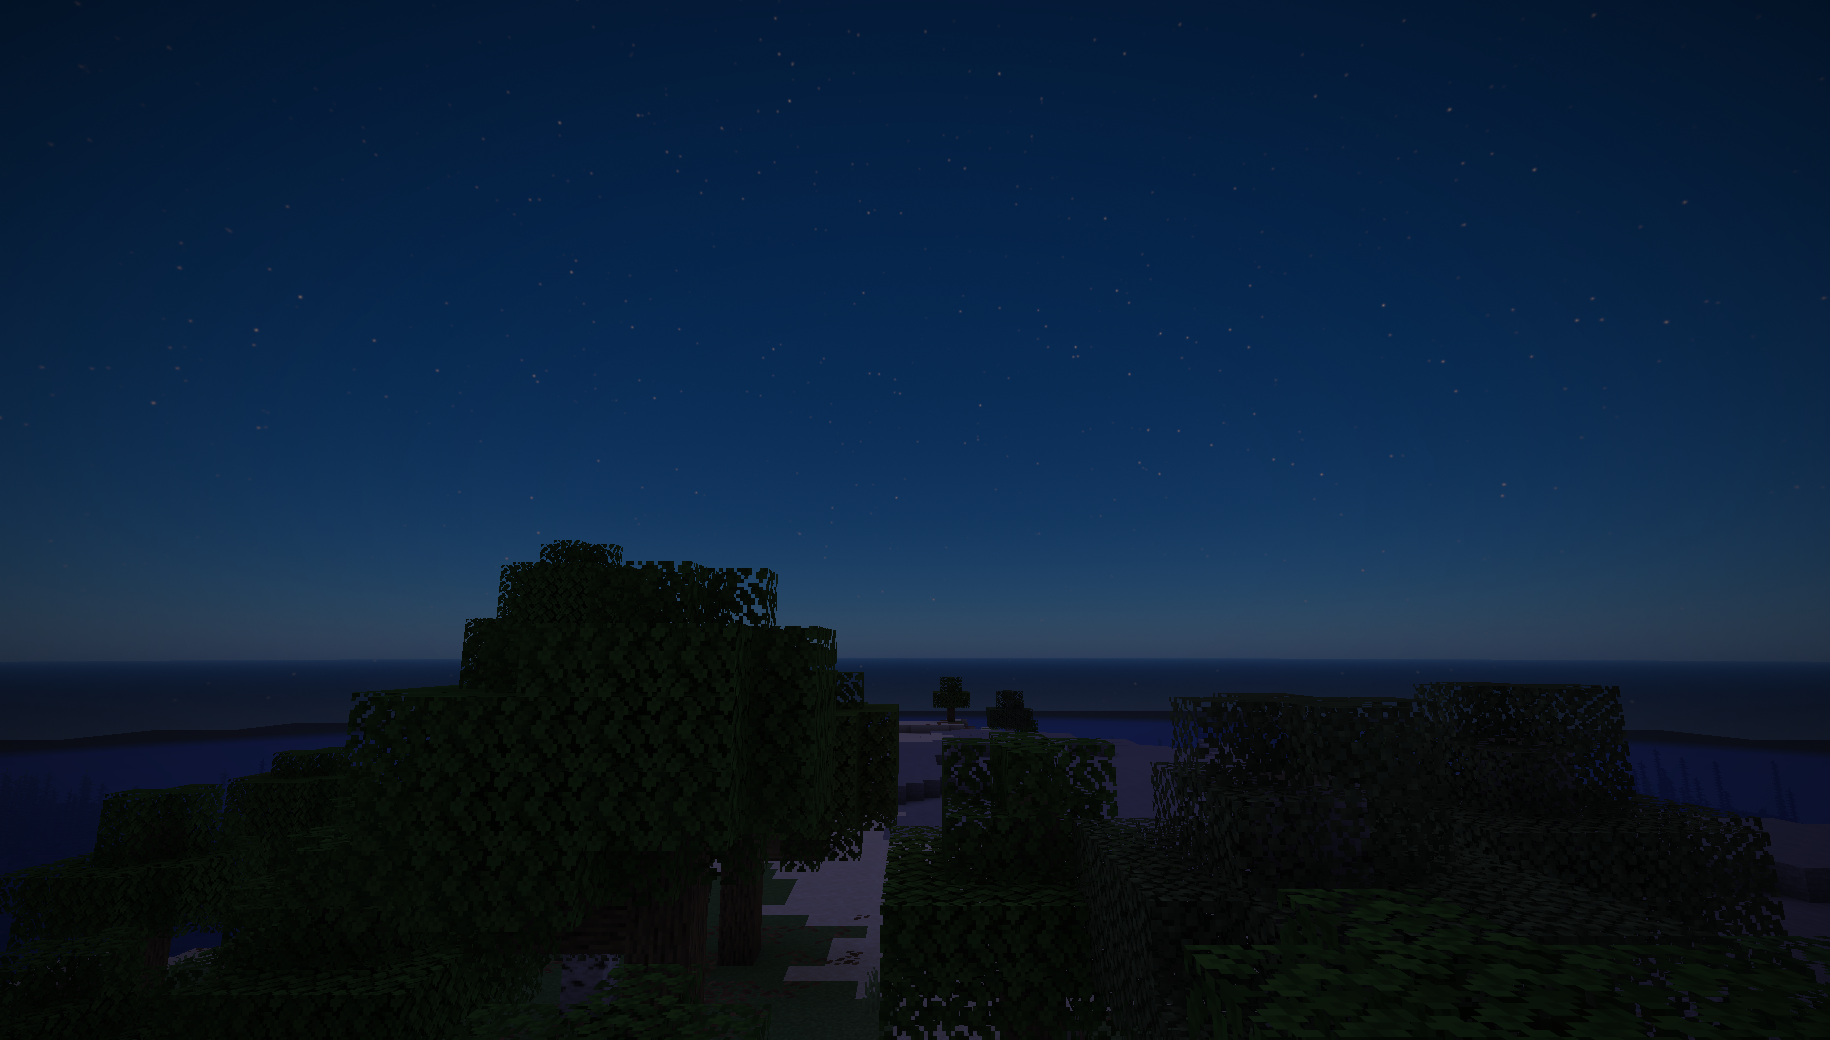
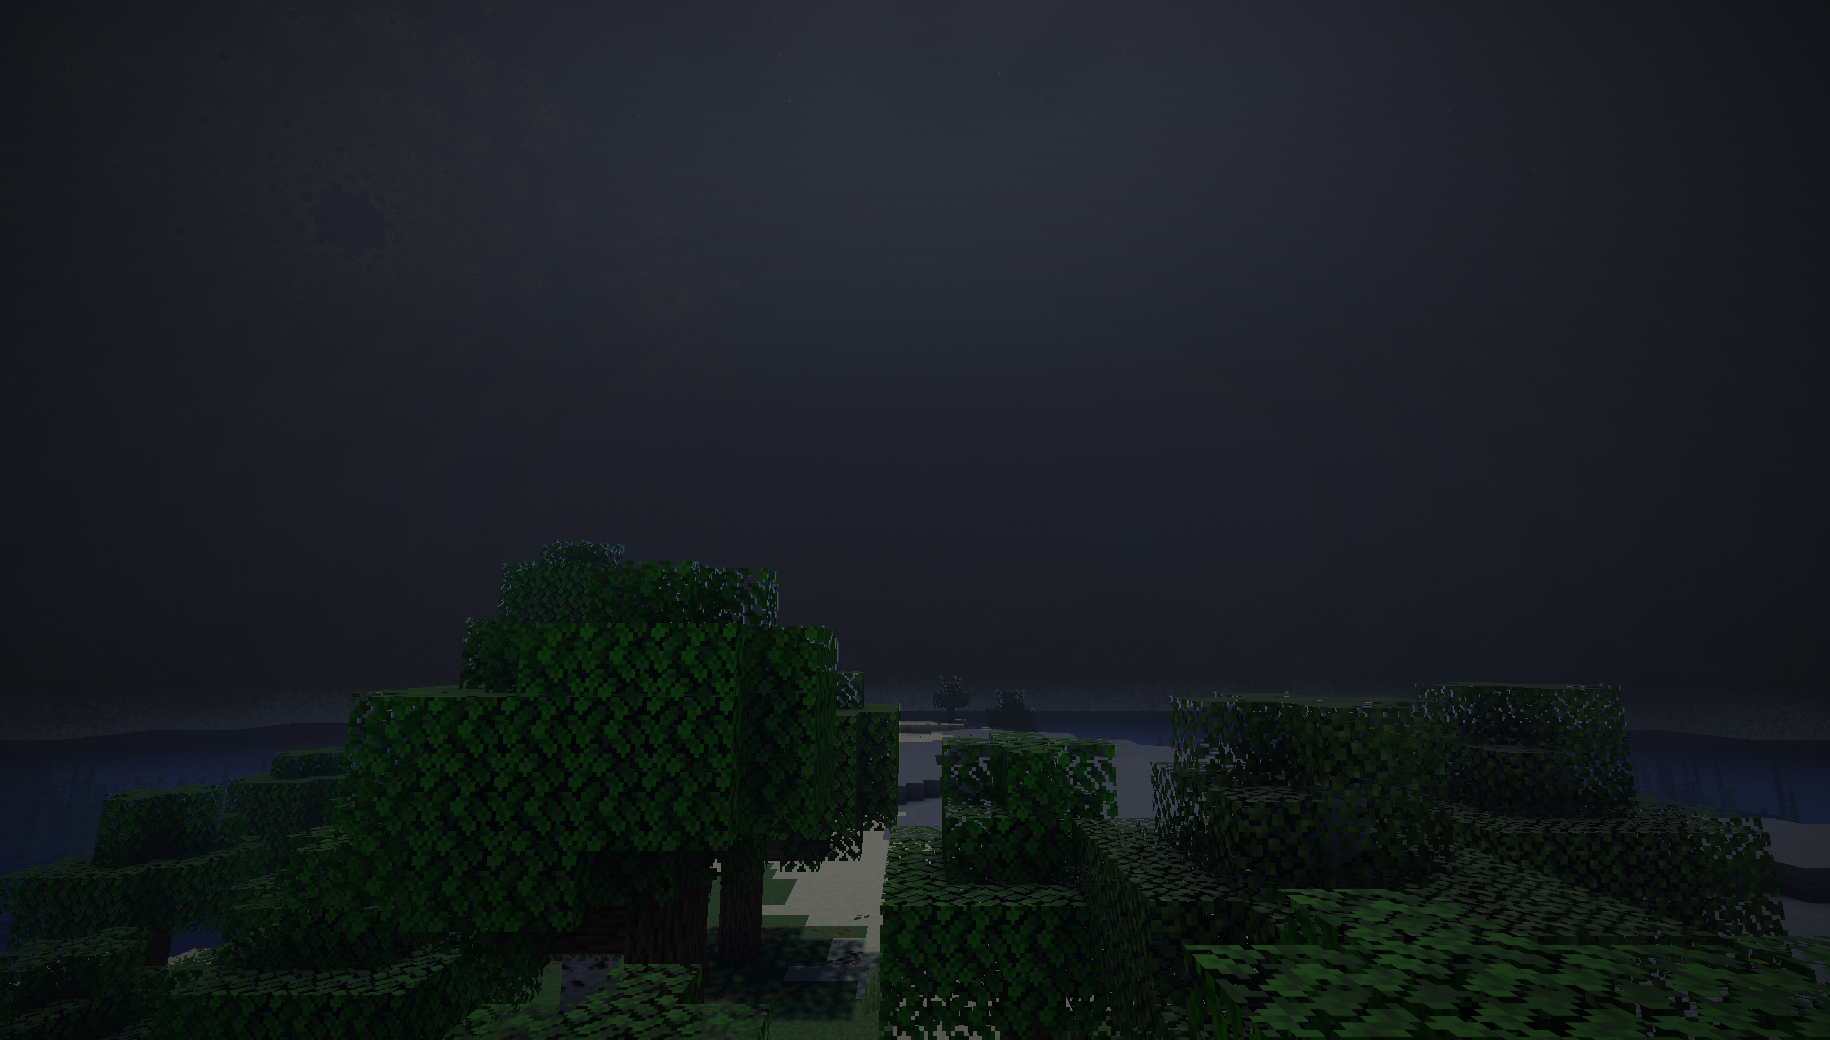
Revisión 03–05: nubes, niebla nocturna, tramos sobre las nubes, horizonte, nieve, VNDF y opciones
- Opciones recortadas al presupuesto de convenciones.md (31: las imprescindibles
  de 01–05 y 11 más tres de margen); «Nubes» por capas.
- Cúmulos: inclinación con la dirección del viento (el desplazamiento acumulado
  daba lágrimas tumbadas), techo menos cónico, ruido blanco por píxel en vez de
  IGN (estrías), más pasos.
- Raymarch por tramos ordenados (niebla bajo el plano de nubes, cada capa en su
  losa); los píxeles de cielo que miran abajo acaban en el plano del mar (el
  rayo seguía bajo el mundo y daba un velo opaco visto desde arriba).
- Cielo bajo el horizonte evaluado mirando al horizonte y con el mismo peso por
  ángulo que la niebla de borde: el mar lejano ya no acaba en una franja gris.
  Aerosoles ×5 y dispersión múltiple 0,4 en parametros.wgsl; tablas regeneradas.
- Niebla nocturna uniforme hasta Y = 320 con τ ≈ 2,2 al cenit (respuesta de A),
  fase propia hacia delante y poco ambiente; tormenta de nieve blanca; manchas
  de bioma solo con downfall > 0,85.
- Reflejos de pantalla con muestreo de la VNDF de GGX.

diff --git a/docs/efectos/niebla-y-nubes.md b/docs/efectos/niebla-y-nubes.md
@@ -14,9 +14,10 @@ reescalado bilateral por profundidad, niebla de borde. `[material] fog = false`:
 se aplica. También cierra dos pendientes: las **sombras de nubes** del 04 en el material, y la **lluvia
 sobre el cielo, que se desvanece por encima de la capa de nubes** (01).
 
-**Fuera por ahora:** los ganchos de la aurora (06) y los rayos del fractal (14) en el bucle; la niebla de
-nieve con `precipitation == 2`; el ruido azul (se usa IGN desplazado por fotograma, y hasta el TAA, 09, se ve
-algo de grano en las nubes y la niebla).
+**Fuera por ahora:** los ganchos de la aurora (06) y los rayos del fractal (14) en el bucle; el ruido azul
+desplazado con R2 (lo trae el 09): hasta entonces el primer paso se desplaza con ruido blanco PCG por píxel y
+fotograma (`rui_blanco_pixel`) y se ve grano fino. Con IGN se veían **estrías paralelas** dentro de las nubes
+(observación del gestor): su estructura diagonal se alineaba entre píxeles vecinos.
 
 ## Por qué del código
 
@@ -47,8 +48,16 @@ código (medido): el presupuesto de 64 por etapa no aprieta.
 - **Sombra** del mapa (una comparación por paso) con la posición del mapa calculada en el núcleo con la
   fórmula documentada de la distorsión (`luz_posicion_mapa`); **sombra de nubes** evaluada en los dos
   extremos del tramo e interpolada (varía despacio y evaluarla en cada paso costaba).
-- **Nubes:** cada capa en el orden en que el rayo la cruza (de abajo arriba mirando arriba, al revés mirando
-  abajo), entre los planos de su losa, 10 pasos (6/10/16 por calidad), 3 en los altoestratos. Luz: Beer con
+- **Tramos ordenados:** la niebla solo existe por debajo del plano de nubes bajas; cada capa de nubes, en su
+  losa. Los cuatro tramos (niebla y tres capas) no se solapan: se calculan sus entradas y se integran en el
+  orden en que el rayo los cruza, esté la cámara por debajo, dentro o por encima de cada capa
+  (`vol_integrar`). Visto en el juego desde Y = 420 (cúmulos grandes encima) y Y = 900 (cúmulos grandes
+  debajo, con la cima iluminada, por delante del suelo).
+- **Píxeles de cielo mirando hacia abajo** (más allá de la distancia de renderizado): el rayo acaba en el plano
+  del mar. Antes seguía 512 bloques bajo el mundo, donde las manchas ya no caen con la altura, y desde encima
+  de las nubes daba un velo opaco ruidoso (lo vio el gestor; la causa la encontró una sonda: `manchas` > 0
+  por el término de bioma húmedo, `downfall` 0,8 del bosque).
+- **Nubes:** 14 pasos por capa baja (8/14/20 por calidad), 3 en los altoestratos. Luz: Beer con
   dos muestras hacia el astro a 8 y 28 bloques **sin erosión** (solo cobertura y forma, como prevé la
   especificación para el presupuesto), fase con «powder», ambiente más oscuro en la base. Hasta 6000
   bloques, fundidas desde la mitad: cerca del horizonte cada paso abarcaba miles de bloques y dejaba vetas.
@@ -57,12 +66,14 @@ código (medido): el presupuesto de 64 por etapa no aprieta.
 
 - **Aire:** Rayleigh (0,5; 1,2; 2,9)·10⁻⁴ y Mie 1·10⁻⁴ por bloque al nivel del mar, altura de escala 600
   bloques. Afinado a ojo: azula y aclara lo lejano sin velar lo cercano.
-- **Niebla uniforme pegada al suelo (desviación, duda para A):** además de la caída desde Y = 320, la uniforme
-  decae con una altura de escala de 70 bloques sobre «mar + 20» (`VOL_UNIFORME_ALTURA`), y la de noche es
-  0,6. Con la uniforme constante hasta 320, mirar arriba de noche atravesaba ~240 bloques de niebla densa
-  (τ ≈ 5) y **tapaba del todo las estrellas y el cielo fractal**, que en la referencia de Vulpe
-  (`forge_cielo.png`) se ven de noche. Así sigue densa a ras de suelo y el cielo se intuye atenuado. Con el
-  mod nativo debería ser la altura media del terreno (`frame.mods[0].w`) en vez del mar.
+- **Niebla nocturna (respuesta de A, 2026-11-02):** tapa el cielo casi entero a propósito (la aurora, 06,
+  existe por eso). Uniforme hasta Y = 320 (sin pegarla al suelo: se probó y se deshizo), densidad relativa
+  0,38 de noche: σ = 0,0076 por bloque, que da τ ≈ 2,2 al cenit desde Y = 70 (≈11 % de transmitancia; A pide
+  10–15 %) y τ ≈ 3,9 hacia el horizonte en los 512 bloques del alcance (≈2 %; A pide < 3 %). **Brillo:** la
+  niebla tiene una fase propia (`vol_fase_niebla`: 96 % de Henyey-Greenstein con g = 0,9, el resto difuso y
+  hacia atrás) y ambiente ×0,015–0,05 del cielo: fuera del halo de la luna queda más oscura que el cielo
+  despejado. Medido en el juego: 16–34/255 lejos del halo frente a 3–17 de `aurora_off_noche.png`; aún algo
+  más clara y gris que la referencia.
 - **Niebla:** extinción 0,02 por bloque con densidad relativa 1; manchas de ruido 3D (celdas de 96×40×96
   bloques) umbralizadas, que caen por encima del mar + 24; caída global `exp(−0,025·(y − 320))`.
   Luz: sol × sombra × fase + ambiente ×0,1–0,25 (más mirando arriba). El ambiente es bajo a propósito:
@@ -72,7 +83,9 @@ código (medido): el presupuesto de 64 por etapa no aprieta.
   por un **gradiente de altura** (base redondeada en los primeros 25 bloques, techo en cúpula):
   `(cobertura − (1 − gradiente))/gradiente` (Schneider y Vos 2015). Sin eso, con densidad casi constante
   en altura, salían columnas de paredes rectas que, vistas desde abajo, convergían en el cenit como rayas.
-  Erosión 3D de dos frecuencias en los bordes. Extinción 0,25 por bloque (0,03 los altoestratos): con 0,06
+  Erosión 3D de dos frecuencias en los bordes. Techo que se estrecha desde el 55 % del espesor (desde el 25 %
+  salían conos). **Inclinación con el viento:** un 20 % del espesor en la *dirección* del viento; antes usaba el
+  desplazamiento acumulado, que crece con el tiempo, y salían lágrimas tumbadas (observación del gestor). Extinción 0,25 por bloque (0,03 los altoestratos): con 0,06
   se veía la columna entera a través de la base.
 - **Capas:** base 175 / 450 / 2000 bloques sobre el mar (Y = 63), espesor 100 / 200 / 12.
 
@@ -82,11 +95,17 @@ Once perfiles (despejado, cúmulos pequeños, grandes, ambos, altoestratos, mixt
 cobertura de cada capa; uno por cuarto de día sorteado con PCG del número de día (`frame.mods[0].z`; 0 sin
 mod: se repite cada día), fundido con el siguiente en el último 20 % del cuarto. Con lluvia se mezcla hacia
 perfiles de lluvia (cobertura 0,65–0,95, densidad ×1,3–1,8). **Horario de la niebla** (relativo): amanecer
-uniforme 0,06 y manchas 0,5; mediodía 0; atardecer uniforme 0,1; noche uniforme 0,6 y manchas 0,15;
+uniforme 0,06 y manchas 0,5; mediodía 0; atardecer uniforme 0,1; noche uniforme 0,38 y manchas 0,15;
 transiciones de 0,08 de día. Lluvia: +0,5 uniforme y +0,4 manchas (× opción). Biomas húmedos: más manchas
-con `downfall` alto y temperatura templada. En cuevas (luz de cielo en la cámara baja) la niebla queda al 5 %.
+con `downfall` por encima de 0,85 (pantanos, junglas, manglares; el bosque normal, 0,8, ya no: sus manchas a
+mediodía salían como grano en el halo del sol) y temperatura templada. **Tormenta de nieve** (`precipitation == 2` y lluvia): +1,2
+uniforme, +0,5 manchas y luz ambiente ×8 (niebla blanca). Vista en un bioma nevado (escena). En cuevas (luz de cielo en la cámara baja) la niebla queda al 5 %.
 
 ### Composición y borde
+
+**Cielo bajo el horizonte y borde:** la niebla de borde y el cielo bajo el horizonte (01) usan el mismo peso
+por ángulo (`cie_peso_bruma_horizonte`: bruma hasta ~9° bajo el horizonte, suelo más allá de ~30°), así el
+terreno que acaba antes del horizonte casa con lo que el cielo pinta detrás, a cualquier altura de cámara.
 
 Reescalado bilateral: los 4 texels vecinos de media resolución pesados por bilineal × `1/(ε + |Δd|/d)` con
 la distancia de cada texel reconstruida con `depth_at` y `view_position`. Niebla de borde: el último tercio de
@@ -95,9 +114,10 @@ cuevas, hacia el color del cielo aproximado de la tabla. `color = escena · T + 
 
 ## Opciones
 
-Página «Niebla y nubes» (12): niebla sí/no, pasos (4–16), cantidad, con lluvia, bruma (0–2), caída
-(0–100 ‰), alcance (256–2048), nubes sí/no, calidad, viento (0–3), sombras de nubes (0–100 %), tiempo diario
-aleatorio. «Nubes por capa» queda fuera para ahorrar opciones (van 58 de 64).
+Presupuesto de `convenciones.md` (2026-11-02): niebla sí/no, calidad (pasos 4–16), cantidad, con lluvia,
+**nubes por capas** (apagadas, todas, solo cúmulos, solo altoestratos) y calidad de nubes. Las sombras de
+nubes van en la página de sombras (04). Bruma, caída, alcance, viento y tiempo aleatorio pasan a constantes
+(`opciones/volumen.wgsl`, en mayúsculas) con su valor por defecto.
 
 ## Coste medido
 

diff --git a/docs/efectos/cielo-y-atmosfera.md b/docs/efectos/cielo-y-atmosfera.md
@@ -41,10 +41,12 @@ como `referencias/uns_cielo-noche_sinfractal.png`. Es analítica y no lee nada d
   (`(1 − e^{−σΔ})/σ`), para que pocos pasos no oscurezcan el cielo.
 - **Dispersión múltiple aproximada:** término isótropo `σ_s · L_media` en cada tramo, con `L_media` la media
   de las filas «cielo» y «suelo» de la tabla para ese astro (la radiancia que ve en promedio un punto del
-  aire), ×0,4 (`OPC_MULTIPLE_REFUERZO`). Con ×1 el cielo de mediodía salía gris; la tabla itera el mismo
+  aire), ×0,4 (`ATM_MULTIPLE`, en `parametros.wgsl`: también lo lee la herramienta). Con ×1 el cielo de mediodía salía gris; la tabla itera el mismo
   término cuatro veces hasta converger.
-- **Aerosoles ×5** sobre Hillaire (`OPC_BRUMA_BASE`) por defecto: con el aire limpio el halo del sol era
-  pequeño y apagado, y la referencia (`base_Bliss-UNS_dia_r1.png`) lo quiere amplio y blanco.
+- **Aerosoles ×5** sobre Hillaire, dentro de `atm_tierra()`: con el aire limpio el halo del sol era pequeño
+  y apagado, y la referencia (`base_Bliss-UNS_dia_r1.png`) lo quiere amplio y blanco. Antes era un
+  multiplicador en `opciones/` que la tabla no veía: su horizonte salía más oscuro que el cielo en vivo y la
+  niebla de borde pintaba una franja gris sobre el mar. Ahora la tabla sale del mismo modelo.
 - **Saturación del cielo** (`OPC_CIELO_SATURACION`): fue ×1,5 mientras la codificación usaba Reinhard por
   canal (comprimía el cenit de ~1 : 2 : 4,5 a ~1 : 1,6 : 2,4); con el Reinhard sobre el canal máximo
   (ADR 0004) vuelve a 1.
@@ -95,11 +97,14 @@ píxeles que se desplaza suave al girar en vez de centellear. No giran con la ho
 
 ### Montaje
 
-`etapas/cielo.wgsl`: fondo (estrellas + disco) × transmitancia, + dispersión; bajo el horizonte un factor
-gaussiano de 0,06 de anchura en `dir.y` lleva a un «suelo» oscuro teñido del cielo
-(`cie_color_bajo_horizonte`: 60 % del cielo medio, 40 % del suelo de la tabla, ×0,35). El suelo iluminado
-de la tabla a secas salía casi blanco con la exposición del día. La dispersión bajo el horizonte se deja
-al 60 % (perspectiva aérea hasta el suelo del planeta).
+`etapas/cielo.wgsl`: fondo (estrellas + disco) × transmitancia, + dispersión. **Bajo el horizonte** la
+atmósfera se evalúa como si se mirase al horizonte (`dir.y` llevado a 0): en Minecraft el terreno acaba antes
+que el horizonte del planeta y lo que se ve detrás tiene que ser bruma; evaluada de verdad, el rayo tocaba el
+suelo del planeta enseguida y quedaba una banda oscura sobre el mar lejano (observación del gestor). Esa
+bruma pasa a un «suelo» oscuro teñido del cielo (`cie_color_bajo_horizonte`: 60 % del cielo medio, 40 % del
+suelo de la tabla, ×0,35) con el mismo peso por ángulo que la niebla de borde del 05
+(`cie_peso_bruma_horizonte`: bruma hasta ~9° bajo el horizonte, suelo pasados ~30°), así casan a cualquier
+altura de la cámara.
 
 **Lluvia:** mezcla hacia un gris (35 % del color medio del cielo) ×1,1, ×(1 − 0,6·tormenta), con peso
 `lluvia · mix(0,75; 1; e^(−4·max(dir.y, 0)))`, mayor hacia el horizonte; la lluvia y la tormenta se
@@ -111,10 +116,9 @@ etapa `sky` no tiene coordenada de píxel.
 
 ## Opciones
 
-Página «Cielo»: brillo del cielo, bruma y brillo de la luna en pasos (−2…+2, 0 en el centro: la regla del
-valor por defecto centrado de las convenciones, con el ×0,25…×4 de la especificación), temperatura del sol
-4000–8000 K (6000 en el centro), estrellas sí/no y su brillo. El multiplicador de Rayleigh por canal
-(prioridad baja) queda fuera para ahorrar opciones.
+Página «Cielo» (presupuesto de `convenciones.md`, 2026-11-02): brillo del cielo y de la luna en pasos
+(−2…+2, 0 en el centro: el ×0,25…×4 de la especificación) y estrellas sí/no. Bruma, temperatura del sol y
+brillo de las estrellas pasan a constantes con su valor por defecto (`opciones/cielo.wgsl`).
 
 ## Coste medido
 

diff --git a/docs/efectos/luz-de-superficie.md b/docs/efectos/luz-de-superficie.md
@@ -70,9 +70,10 @@ Perfil `e^(−grosor/alcance)·cantidad` con alcance de 0,05 a 1,5 bloques; colo
 saturado ×1,5 por lo que no pasa; fase de dos lóbulos de Henyey-Greenstein (g 0,85 y 0,4) normalizada a
 ~1 de lado y ~10 a contraluz. La directa total es `mix(SSS, albedo, N·L × sombra)`.
 
-**Alfombras y capas de nieve:** Horizon da el id por sprite, y la alfombra usa el sprite de la lana y la
-capa de nieve el del bloque de nieve: no se pueden separar de sus bloques. Las alfombras quedan sin SSS y
-las capas de nieve con el débil del bloque.
+**Alfombras y capas de nieve (decidido: aceptarlo, la primera opción de A):** Horizon da el id por sprite
+(`[[materials]] blocks` tampoco lo separa) y la alfombra usa el sprite de la lana y la capa de nieve el del
+bloque de nieve. Las alfombras quedan sin SSS como la lana, y las capas de nieve con el débil del bloque.
+Distinguirlas por la altura de la cara superior solo serviría para esa cara y se notaría poco.
 
 ### Especular y LabPBR
 
@@ -114,11 +115,17 @@ bloques, y 4 pasos de bisección; las posiciones se reconstruyen con `projection
 dirección reflejada × curva de la luz de cielo del punto. Por Fresnel con rugosidad sobre el F0 del dato. Sin
 paquete PBR solo lo usan los charcos.
 
+**Rugosidad:** la normal de microfaceta se muestrea de la VNDF de GGX (Heitz 2018, `sup_muestrear_vndf`) con
+dos números al azar por píxel y fotograma, en una base ortonormal alrededor de la normal (Duff et al. 2017);
+el TAA (09) promediará el ruido. Los charcos (suavidad 0,97) son casi espejo y la desviación apenas se nota;
+**no se ha podido ver en superficies rugosas** sin un paquete LabPBR.
+
 ## Opciones
 
-Página «Luz»: brillo de la luz de cielo y de bloque (0–2), color de la luz de bloque, luz mínima en cuevas
-(0,5) y al aire libre (0), SSS (apagado, lista, LabPBR, ambas), su brillo, brillo especular del sol, emisión
-LabPBR, reflejos de pantalla (apagados, bajos, altos) y charcos.
+Página «Luz» (presupuesto de `convenciones.md`): luz de cielo y de bloque (0–2), luz mínima en cuevas, SSS
+(apagado, lista, LabPBR, ambas), reflejos de pantalla (apagados, bajos, altos) y charcos. Color de la luz de
+bloque, luz mínima al aire libre, brillo del SSS, especular del sol y emisión LabPBR pasan a constantes
+(`opciones/luz.wgsl`).
 
 ## Coste
 

diff --git a/docs/efectos/cielo-fractal.md b/docs/efectos/cielo-fractal.md
@@ -84,9 +84,10 @@ figuras más brillantes y opacas que la referencia, que las quiere del orden de 
 
 ## Opciones
 
-Página «Cielo fractal» (13): activado, cambios por noche, cobertura 5–80 (45), máximo de conjuntos 1–8 (6),
-semilla 0–15 (8), paleta, brillo 0–200 (40), techo 0–200 (150), saturación 0–100 (70), contraste 0–300 (60),
-mutación 0–100 (25), hueco 0–400 (40), dibujo original/suave. Valores por defecto de la especificación.
+Presupuesto de `convenciones.md` (2026-11-02), página «Cielo fractal» (8): activado, cambios por noche,
+cobertura 5–80 (45), máximo de conjuntos 1–8 (6), semilla 0–15 (8), paleta, brillo 0–200 (40), saturación
+0–100 (70). Techo (150), contraste (60), mutación (25), hueco (40) y dibujo (original) pasan a constantes
+(`opciones/fractal.wgsl`).
 
 **Omitidas en esta versión** (la especificación lo permite): el modo manual y su figura colocada a mano, y
 el relleno «salpicadura» (la especificación no describe su comportamiento: duda pasada al gestor). El dibujo

diff --git a/docs/efectos/sombras.md b/docs/efectos/sombras.md
@@ -75,8 +75,8 @@ Solo en caras hacia la luz, en plantas cruzadas o con SSS, y con algo de luz de 
 
 ## Opciones
 
-Página «Sombras»: penumbra básica/variable, penumbra mínima (0–10) y máxima (0–40 texels), muestras del
-filtro (4–16), sombras de color. La resolución y la distancia del mapa son del manifiesto y el jugador no
+Página «Sombras» (presupuesto de `convenciones.md`): penumbra básica/variable y sombras de nubes. Penumbra
+mínima y máxima, muestras y sombras de color pasan a constantes (`opciones/sombras.wgsl`). La resolución y la distancia del mapa son del manifiesto y el jugador no
 puede cambiarlas (limitación de Horizon que recoge la especificación).
 
 ## Coste medido
